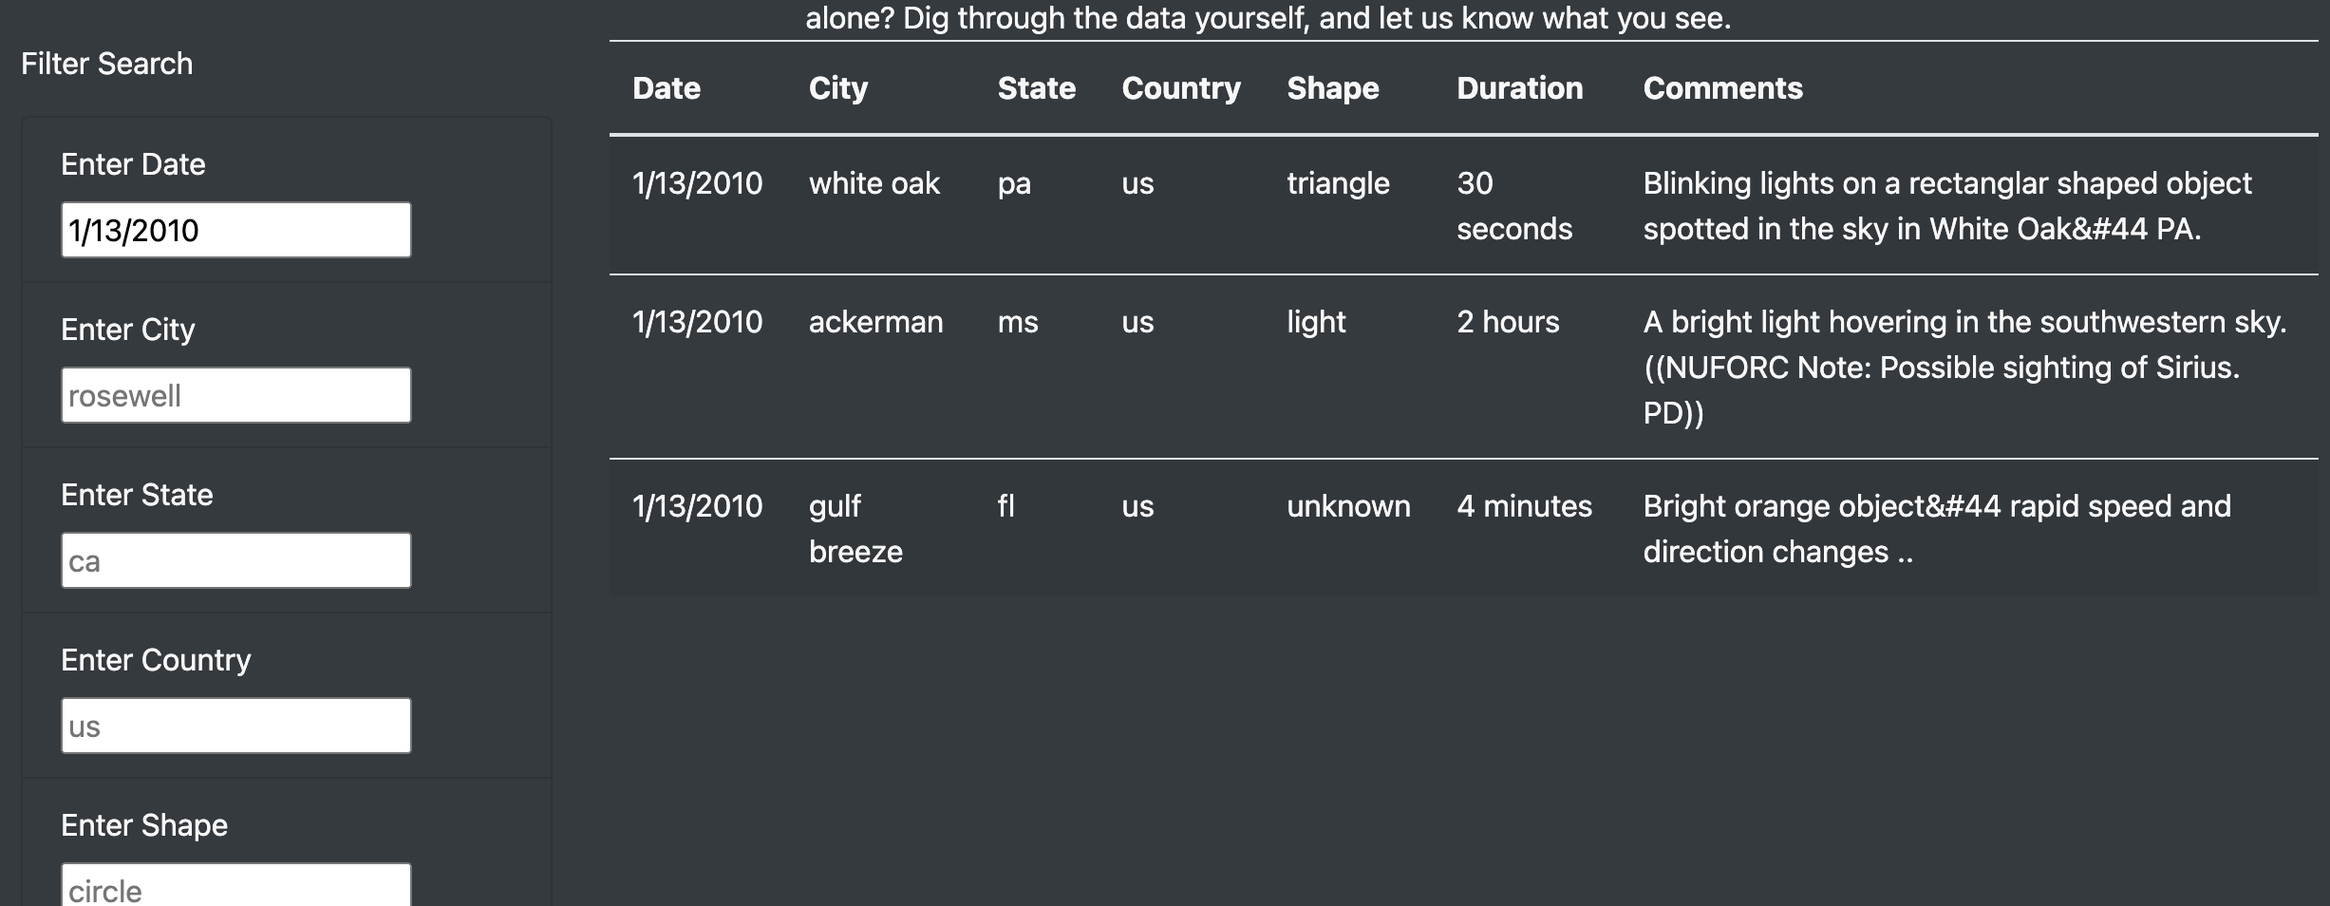
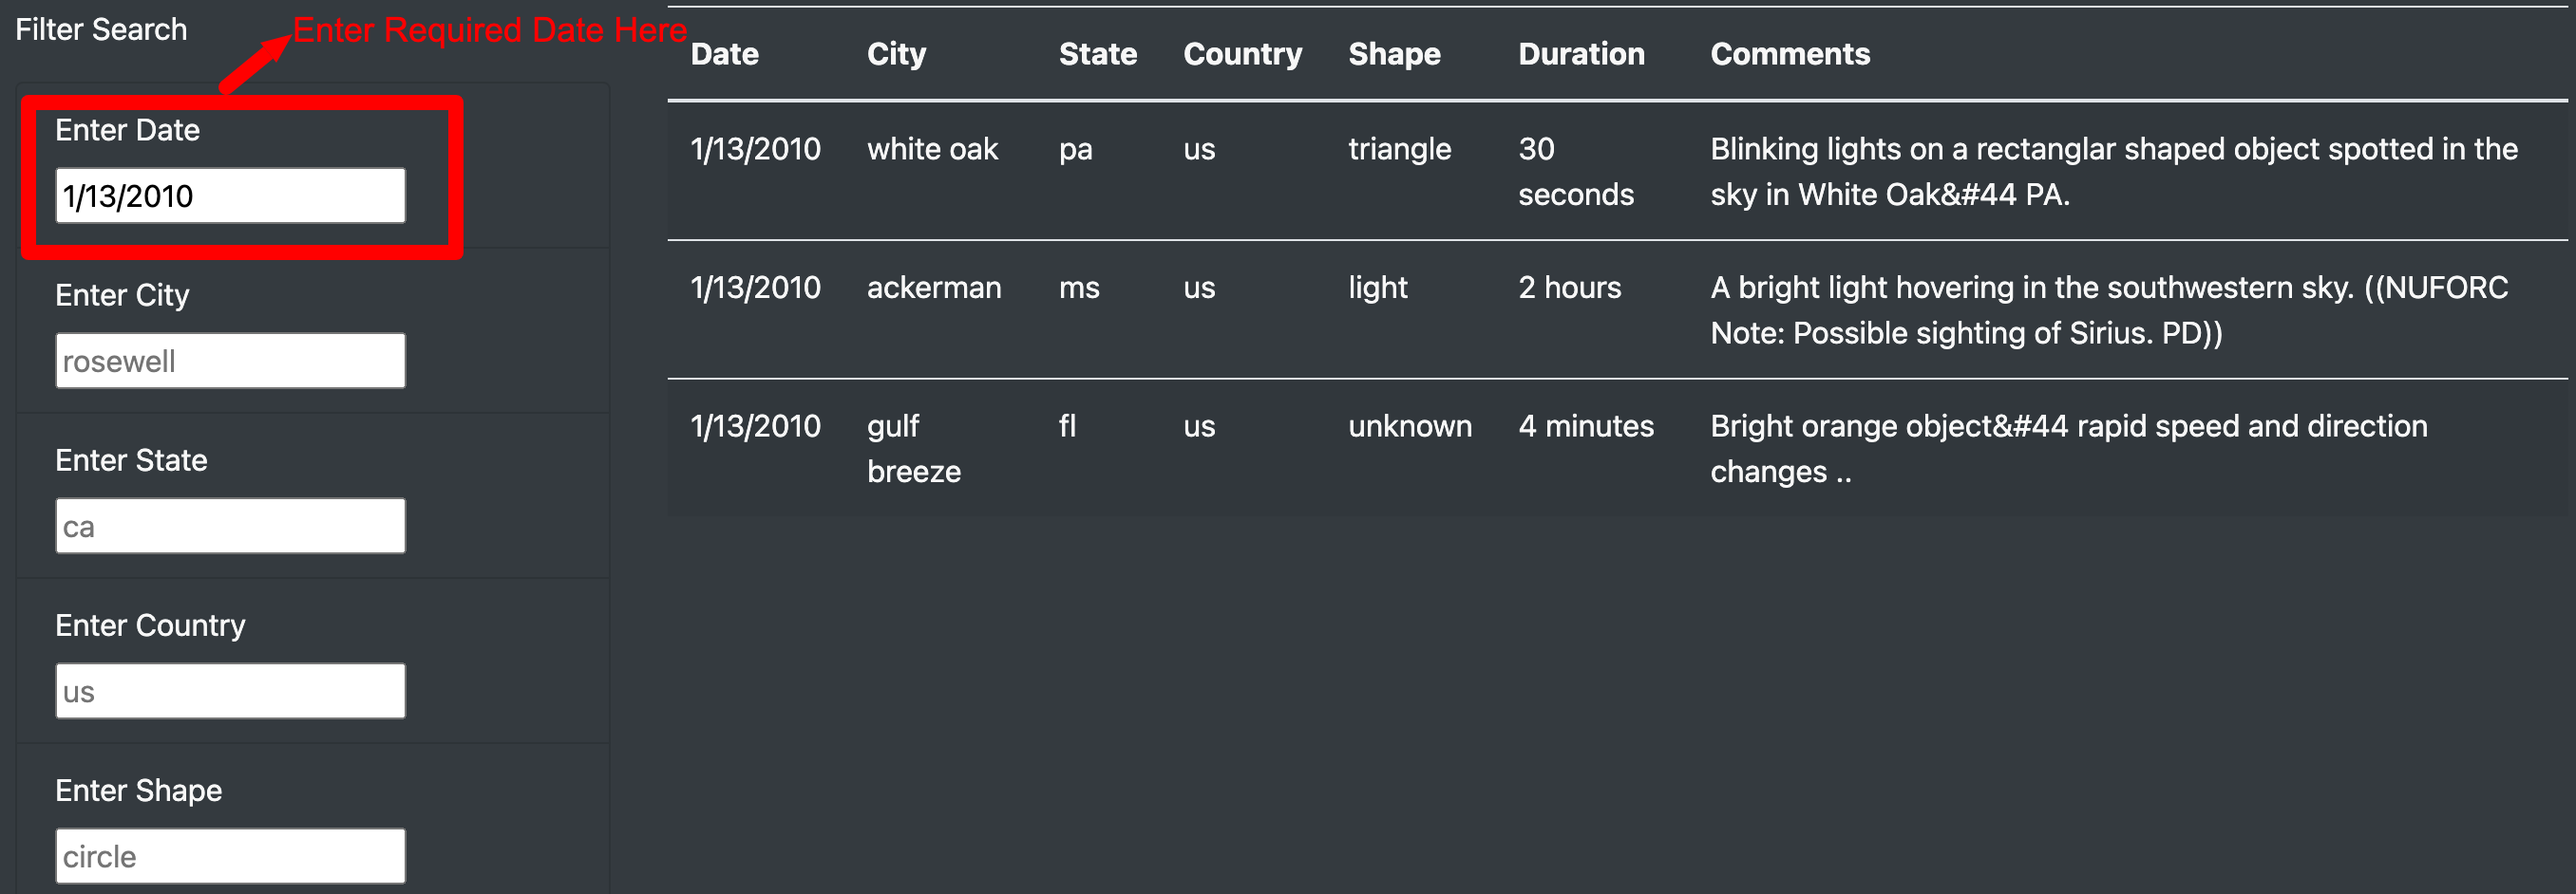
updated readme for module 11

diff --git a/README.md b/README.md
@@ -2,23 +2,68 @@
 
 ## Overview of the Project
 
+For an article on McMinnville, Oregon, this project is to build a webpage detailing information on UFOs and UFO sightings. An initial dataset was collected with details of the sightings on a period of time.
+
+As part of this project a professional webpage was required with the details. The data collected can be put as a table, but additional dynamic filtering is required to enable users to quickly analyze through the data for their interest using filters.
 
 ## Resources
 - Data Source: data.js
-- Software: Python 3.9.7, Visual Code, javascript, mongo, bootstrap, html
+- Software: Python 3.9.7, Visual Code, javascript, bootstrap, html
 ---
 
 ## Results
 
-![UFO-Finder](Resources/UFO-Finder.gif)
+The webpage was built using javascript and bootstrap styles giving the dynamic webpage a very aesthetic. Dynamic filters were added to filter the data using anyone or more of the following attributes:
+1. Date
+2. City
+3. State
+4. Country
+5. Shape 
 
-There is a description of how to perform a search, with images
+### Process to Perform a Search
 
+1. Below the details on UFO and few details on the topic, there is a table of all UFO sightings with filter options in the left side. By default no filter options are added. 
+
+    ![ImageWithNoFilter](Resources/ImageWithNoFilter.png)
+
+2. In the filter options as an example a specific date criteria can be added in the Date Section. Once the date is entered click outside the textbox or tab out to enable the criteria.
+
+    ![ImageWithDateFilter](Resources/ImageWithDateFilter.png)
+
+3. We can add additional criteria in the same way, for example in the below case state code was added as an additional filter criteria
+
+    ![ImageWithDateAndStateFilter](Resources/ImageWithDateAndStateFilter.png)
+
+4. Previous Filter criterias can also be removed.
+
+    ![ImagewithStateFilter](Resources/ImagewithStateFilter.png)
+
+5. UFO Sightings in the top can be clicked or the page can be refreshed to clear all filters in one click and start from beginning.
+
+6. Below is a gif image showing the flow to search using filters and finally resetting all of it.
+
+    ![UFO-Finder](Resources/UFO-Finder.gif)
 
 ---
 
 ## Summary
 
+A very impressive dynamic webpage was built as part of this project providing all the planned features required for the article
 
+Drawback: 
 
+1. One key drawback of this webpage is that the data is provided from a static file and any changes to the data will require an update to the data.js file.
+
+Recommendations:
+
+1. Store all UFO sightings information into a database. With this any new sightings information can be directing updated into the database table which inturn will automatically update this webpage. 
+
+2. Adding additional details on latest news articles on UFO's and UFO sightings will provide more interests. For this a webscraping module can be build to collect details from existing websites.
+
+3. Additional summary metrics can be provided using data engineering from the table with details like:
+    - Count of sightings by year
+    - Most common shape observed
+    - Average duration encountered
+    - Counts by City, Stage, Country
+    - Graphs on sightings by time
 
